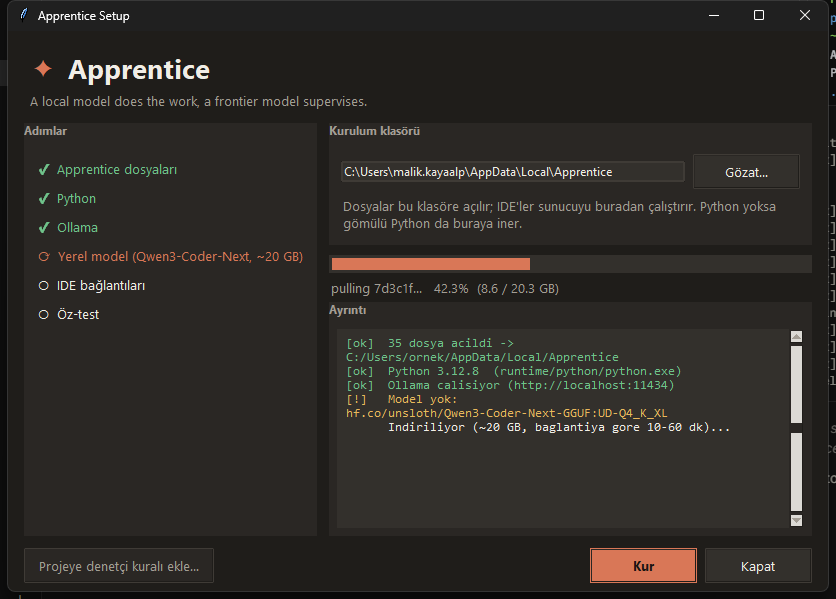
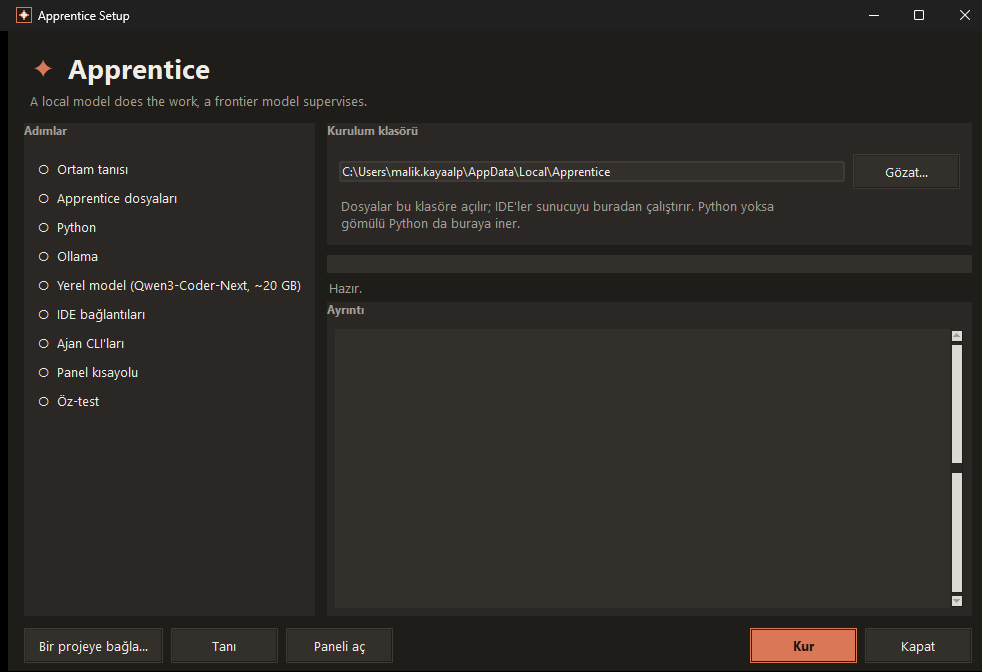
giris sayfasina gercek ekran goruntuleri + fark derin baglantisi + ozet korumasi
Gorseller (headless Chrome ile alindi, panel gercek bir isi gosteriyor):
- docs/panel.png  panelin tamami: 8 bolum, model kapsulu, boru hatti, canli olay akisi
- docs/fark.png   fark gorunumu: +18 -9, surum secici, katlanmis degismeyen bloklar
- docs/setup.png  kurulum penceresi yenilendi (9 adim; "Kur" dugmesi artik tam gorunuyor)

Not: WebView2 icerigi PrintWindow ile yakalanamiyor (ayri bilesim yuzeyi) - panel bir web
sayfasi oldugu icin headless tarayiciyla alindi; kurulum penceresi Tkinter/GDI oldugundan
PrintWindow ile alindi.

Fark derin baglantisi: /dosya?is=<is>&yol=<dosya>&kip=fark sayfayi DOGRUDAN fark kipinde
acar. Ekran goruntusu icin gerekti ama asil faydasi panelden "ne degisti"ye tek adimda
gitmek. Gecersiz kip degeri sessizce "kod" sayilir.

Ozet korumasi (izle.py): e["ruff"] LISTE'dir (code_runner: ruff_rapor[:12] or None). Tek
bir dizge gelirse harf harf geziliyordu ve IS OZETI paneline "ruff: t", "ruff: e", "ruff: m"
diye cop satirlar dokuluyordu - ekran goruntusunu alirken gorundu. Artik dizge tek satir
sayiliyor; canli panelde dogrulandi (["ruff: temiz"]).

diff --git a/clients/web/goruntuleyici.py b/clients/web/goruntuleyici.py
@@ -68,7 +68,7 @@ select:hover{{color:var(--metin);border-color:var(--vurgu)}}
 </header>
 <div id="kod"></div>
 <script>
-const IS={is_json}, YOL={yol_json};
+const IS={is_json}, YOL={yol_json}, ACILIS_KIP={kip_json};
 /* TEK GECISLI TARAYICI. YASANDI: eskiden zincirleme replace vardi - once dizge gecisi
    <span class="st"> yaziyor, hemen ardindan anahtar kelime gecisi KENDI YAZDIGI etiketin
    icindeki 'class' kelimesini boyuyordu ('class' KW listesinde!). HTML parcalaniyor,
@@ -113,7 +113,7 @@ function ciz(metin, eski){{
 /* FARK GORUNUMU: denetleyenin asil sorusu "ne yazdi" degil "NE DEGISTIRDI"dir. Ayni dosya
    onarim turlarinda birkac kez yazilir; her 'write' olayi bir SURUMDUR. Kod kipinde eski bir
    surumun tam hali, fark kipinde iki surum arasi degisiklik gosterilir. */
-let son=null, pano="", kip="kod", surumler=[], secim=0, cizilenSel="", farkImza="";
+let son=null, pano="", kip=ACILIS_KIP, surumler=[], secim=0, cizilenSel="", farkImza="";
 function el(k){{return document.getElementById(k)}}
 function selYaz(){{
   const s=el("surumSec"), n=surumler.length, imza=kip+":"+n;
@@ -224,6 +224,9 @@ const yolla = m => {{ try{{ window.chrome.webview.postMessage(m); }}catch(e){{}}
   document.getElementById("pKapat").onclick=()=>{{ if(KABUK) yolla("kapat"); else window.close(); }};
   if(!KABUK) document.getElementById("pBuyult").style.display="none";
 }})();
+if(kip==="fark"){{                       // derin baglanti: ?kip=fark ile acildi
+  const b=el("bKip"); b.textContent="📄 kod"; b.classList.add("etkin");
+}}
 document.getElementById("yenile").onclick=cek;
 document.getElementById("kopyala").onclick=()=>navigator.clipboard.writeText(pano||son||"");
 el("bKip").onclick=()=>{{
@@ -240,11 +243,14 @@ cek();
 </script></body></html>"""
 
 
-def sayfa(jid: str, yol: str) -> str:
+def sayfa(jid: str, yol: str, kip: str = "kod") -> str:
+    """kip="fark" ile sayfa DOGRUDAN fark gorunumunde acilir (derin baglanti):
+    /dosya?is=...&yol=...&kip=fark - panelden "ne degisti" sorusuna tek tikla gitmek icin."""
     ad = os.path.basename(yol) or "dosya"
     kacir = lambda s: s.replace("&", "&amp;").replace("<", "&lt;").replace(">", "&gt;")
     return SAYFA.format(ad=kacir(ad), bilgi=kacir("%s · %s" % (yol, jid[:15])),
-                        is_json=json.dumps(jid), yol_json=json.dumps(yol))
+                        is_json=json.dumps(jid), yol_json=json.dumps(yol),
+                        kip_json=json.dumps("fark" if kip == "fark" else "kod"))
 
 
 def _yol_gecerli(yol: str) -> str:

diff --git a/izle.py b/izle.py
@@ -148,7 +148,13 @@ class IsDeposu:
                     if e.get(alan):
                         s["uyarilar"].append(etiket or str(e[alan]))
                 if e.get("ruff"):
-                    s["uyarilar"].extend("ruff: " + str(u) for u in e["ruff"][:4])
+                    # ruff LISTE'dir (code_runner: ruff_rapor[:12] or None). Tek bir dizge
+                    # gelirse harf harf gezilir ve ozete "ruff: t", "ruff: e"... diye cop
+                    # satirlar dokulurdu - eski/bozuk kayit da ozetı bozmasin.
+                    ruff = e["ruff"]
+                    if isinstance(ruff, str):
+                        ruff = [ruff]
+                    s["uyarilar"].extend("ruff: " + str(u) for u in list(ruff)[:4])
             elif t == "error":
                 s["hatalar"].append(e.get("message", ""))
                 s["derleme"] = "calistirilamadi"

diff --git a/clients/web/panel.py b/clients/web/panel.py
@@ -725,7 +725,7 @@ class Istek(BaseHTTPRequestHandler):
             elif yol.path == "/dosya":
                 # AYRI PENCERE goruntuleyici: dosya icerigi panel alanini kaplamasin
                 import goruntuleyici as G
-                self._gonder(G.sayfa(q.get("is", ""), q.get("yol", "")),
+                self._gonder(G.sayfa(q.get("is", ""), q.get("yol", ""), q.get("kip", "")),
                              "text/html; charset=utf-8")
             elif yol.path == "/api/dosya":
                 import goruntuleyici as G

diff --git a/README.md b/README.md
@@ -44,6 +44,13 @@ the pipeline, the metrics, and a **diff view** of every version of every file it
 also talk to both models from it — free-form chat with the local apprentice, and with Claude as
 the supervisor. See [Panel](#panel) below.
 
+![Apprentice Panel](docs/panel.png)
+
+The diff view answers the question that actually matters when you supervise — not *what did it
+write*, but **what did it change** between repair rounds:
+
+![Fark görünümü](docs/fark.png)
+
 ## Use
 
 Add the supervisor rule to your project (`python kur.py --kural <project>`), then simply describe the
@@ -83,6 +90,8 @@ Kurulum masaüstüne **Apprentice Panel** kısayolu bırakır; kısayol `Apprent
 açar. Tarayıcı değil, **kendi penceresi** (WebView2; Electron yok, ek bağımlılık yok). Panel çırağı iş üstünde
 gösterir ve iki modelle de konuşmanızı sağlar.
 
+![Apprentice Panel](docs/panel.png)
+
 **Sekiz bölüm:** İŞLER · BORU HATTI · OLAY AKIŞI · ÇIRAK · METRİKLER · İŞ ÖZETİ ·
 USTA·CLAUDE · DOSYALAR
 
@@ -99,6 +108,9 @@ ayrı bir penceredir — kod, panel alanını kaplamaz.
 onarım turlarında birkaç kez yazılır; her yazım bir **sürümdür**. Görüntüleyicideki `± fark`
 düğmesi iki sürüm arasındaki değişikliği gösterir: yeşil `+` / kırmızı `−` satırlar, `+18 −9`
 özeti, değişmeyen uzun bloklar katlanmış. Sürüm seçiciden herhangi bir turu açabilirsiniz.
+Panelden doğrudan farka gitmek için derin bağlantı: `/dosya?is=<iş>&yol=<dosya>&kip=fark`
+
+![Fark görünümü](docs/fark.png)
 
 **Model kapsülü** (sağ üst). Çırak modeli oradan seçilir — görev kutusundaki seçiciyle aynı
 seçimdir. `▶` seçili modeli önceden ısıtır, `⏏` bellekten boşaltır. Model yüklemesi 30–60 sn
